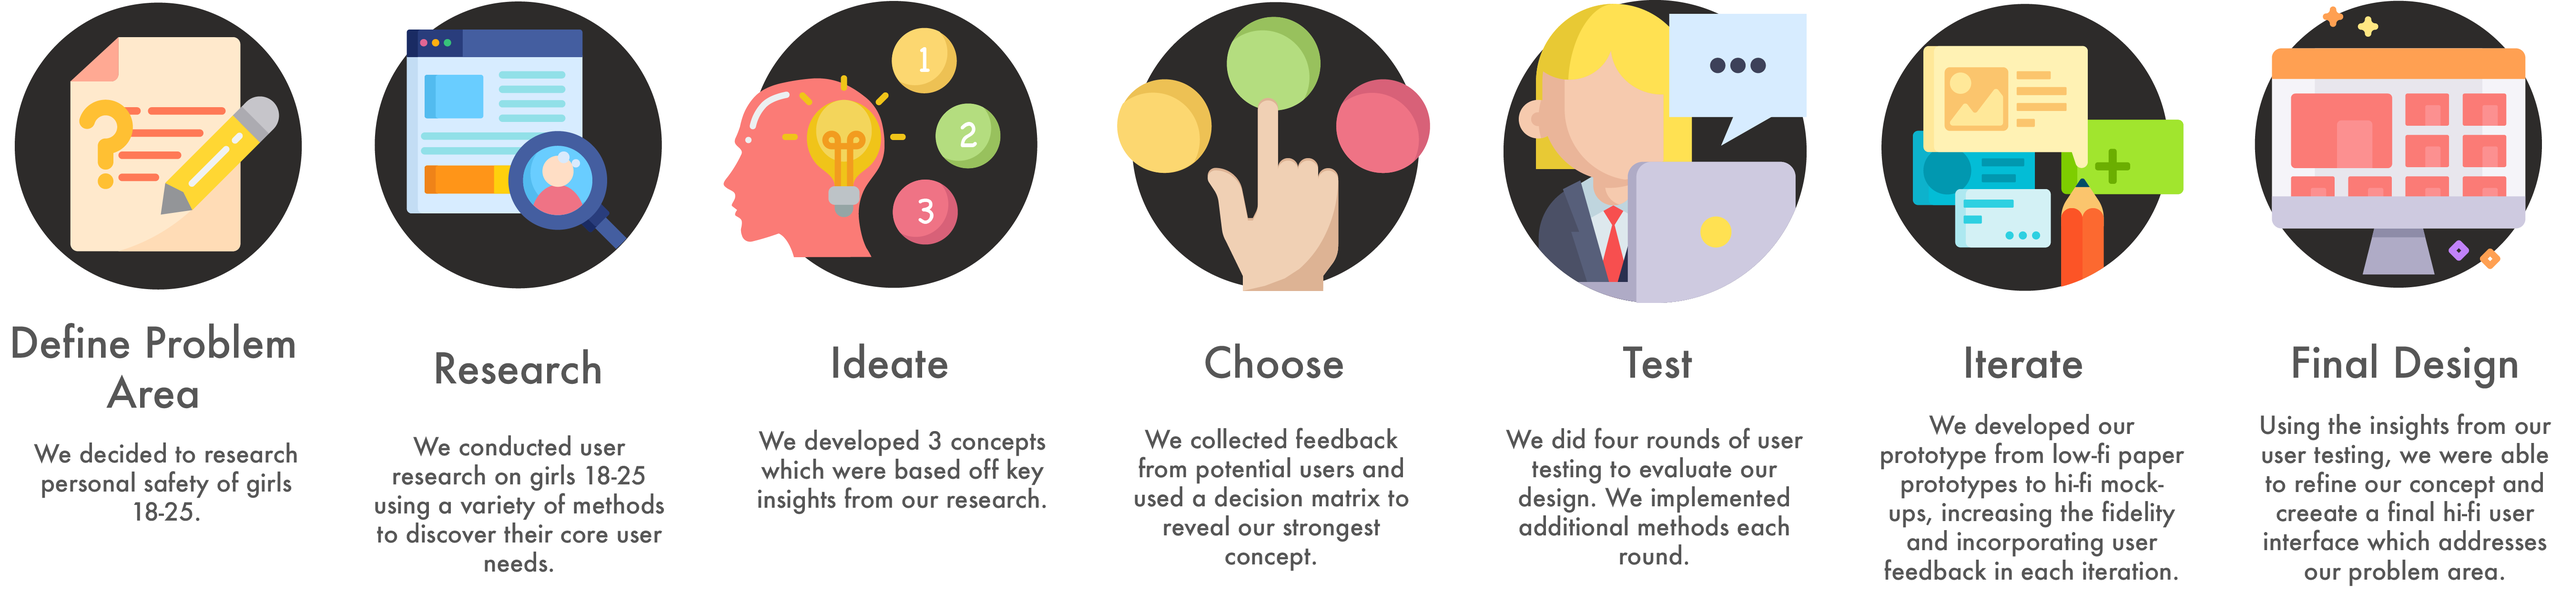
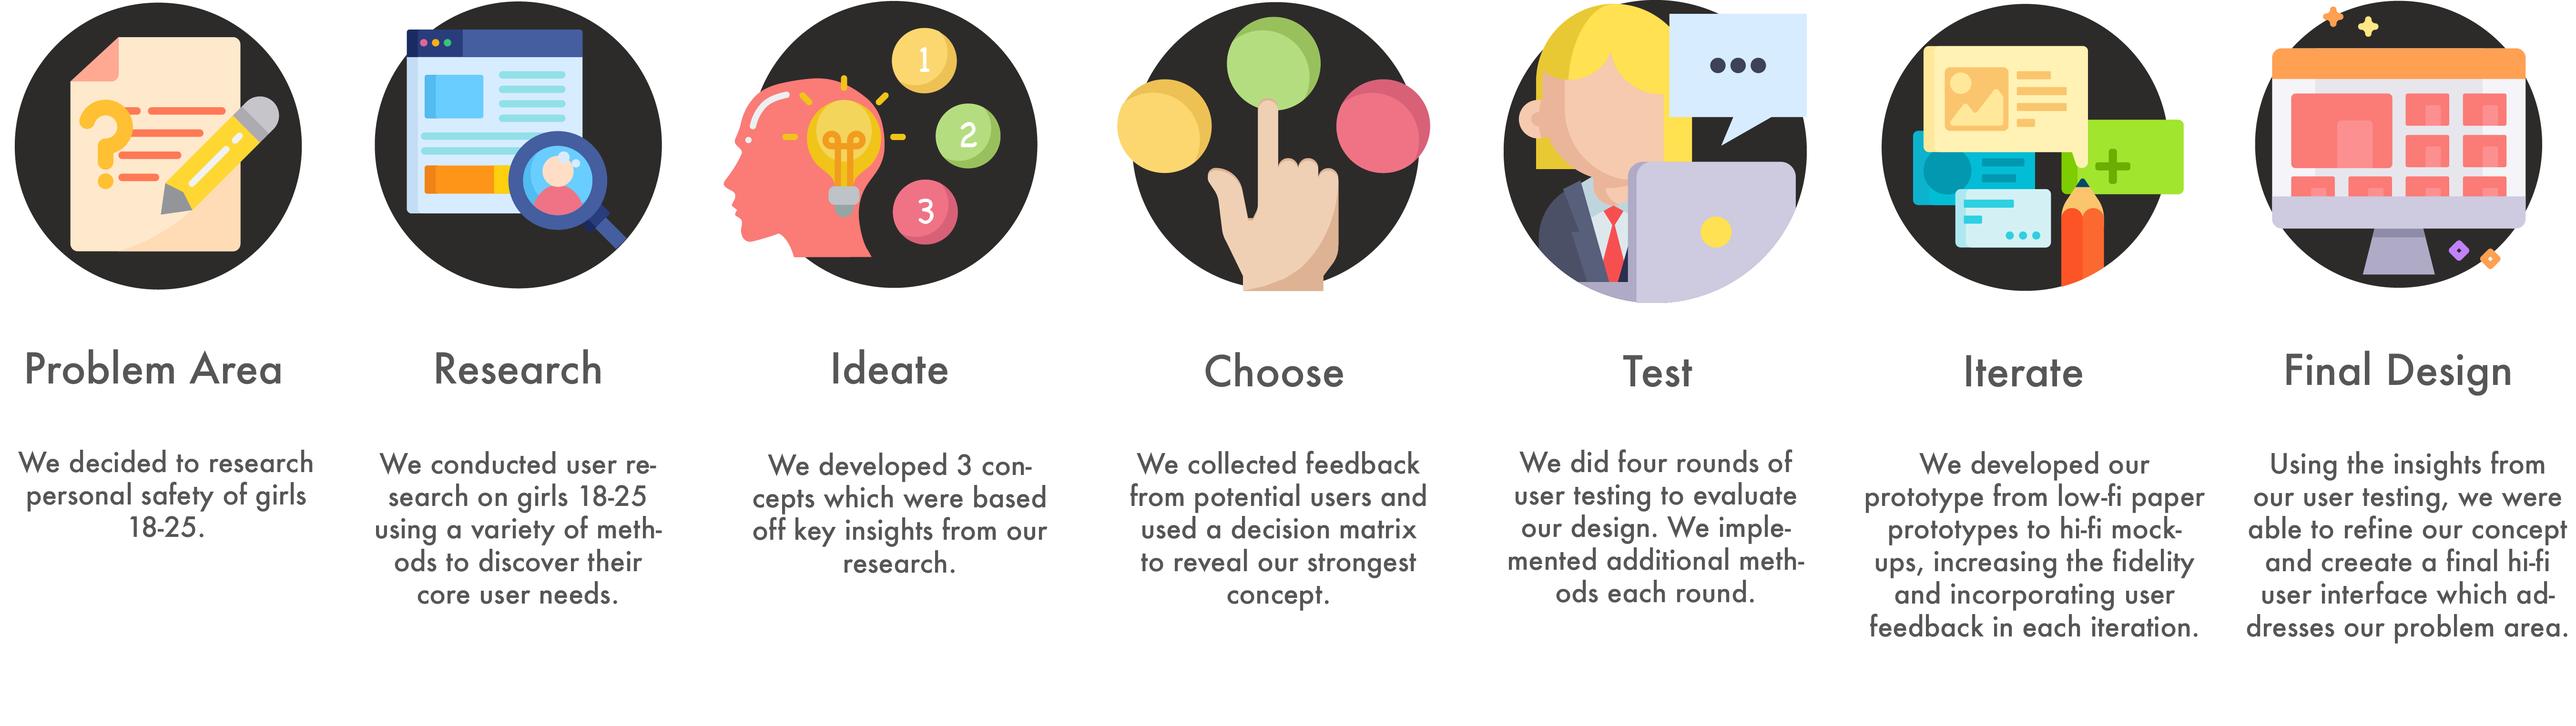
#anna - added visuals

diff --git a/task3.html b/task3.html
@@ -53,7 +53,6 @@
 
 <!-- Hero Page -->
          <section class="title-container">
-            <h1 id="title">Hero</h1>
             <span class="separator"></span>
          </section>
 
@@ -63,9 +62,11 @@
 <div class="section">
    <div class="containercontent">
      <h1 id="heading">OVERVIEW OF PROCESS</h1>
+     <div class="single-image-container">
      <div><img id="process" src="img/process.png"></div>
+    </div>
      <p id="paragraph">Lorem Ipsum is simply dummy text of the printing and typesetting industry. Lorem Ipsum has been the industry's standard dummy text ever since the 1500s, when an unknown printer took a galley of type and scrambled it to make a type specimen book. It has survived not only five centuries, but also the leap into electronic typesetting, remaining essentially unchanged. It was popularised in the 1960s with the release of Letraset sheets containing Lorem Ipsum passages, and more recently with desktop publishing software like Aldus PageMaker including versions of Lorem Ipsum.</p>
-   </div>
+    </div>
  </div>
 
 <!-- SECTION 2 - -->
@@ -74,6 +75,7 @@
              <div class="containercontent">
                <h1 id="heading">OUR PROBLEM AREA</h1>
                <h2 id="heading">Personal Safety of females 18-25</h2>
+               <div><img id="problem" src="img/problem.jpeg"></div>
                <p id="paragraph">Lorem Ipsum is simply dummy text of the printing and typesetting industry. Lorem Ipsum has been the industry's standard dummy text ever since the 1500s, when an unknown printer took a galley of type and scrambled it to make a type specimen book. It has survived not only five centuries, but also the leap into electronic typesetting, remaining essentially unchanged. It was popularised in the 1960s with the release of Letraset sheets containing Lorem Ipsum passages, and more recently with desktop publishing software like Aldus PageMaker including versions of Lorem Ipsum.</p>
              </div>
            </div>
@@ -103,7 +105,12 @@
      <div class="containercontent">
        <h1 id="heading">INITIAL CONCEPTS</h1>
        <p id="paragraph">Lorem Ipsum is simply dummy text of the printing and typesetting industry. Lorem Ipsum has been the industry's standard dummy text ever since the 1500s, when an unknown printer took a galley of type and scrambled it to make a type specimen book. It has survived not only five centuries, but also the leap into electronic typesetting, remaining essentially unchanged. It was popularised in the 1960s with the release of Letraset sheets containing Lorem Ipsum passages, and more recently with desktop publishing software like Aldus PageMaker including versions of Lorem Ipsum.</p>
-     </div>
+        <div class="image-container">
+       <div><img id="concept1summary" src="img/concept1summary.png"></div>
+       <div><img id="concept2summary" src="img/concept2summary.png"></div>
+       <div><img id="concept3summary" src="img/concept3summary.png"></div>
+        </div>
+    </div>
    </div>
 
 <!-- SECTION 5 - -->

diff --git a/styles.css b/styles.css
@@ -13,7 +13,7 @@
 }
 body {
 	/*font-family: "Lato", sans-serif;*/
-	font-family: 'PT Sans', sans-serif;
+	font-family: 'Qanelas ', sans-serif;
 }
 
 .container {
@@ -42,6 +42,25 @@ body {
 	grid-gap: 10px;
 
 	height: 100vh;
+}
+
+.image-container {
+    display: flex;
+    justify-content: space-between;
+    align-items: center;
+}
+
+.single-image-container {
+    display: flex;
+    justify-content: center;
+}
+
+.single-image-container img {
+    width: 12
+}
+
+.image-container img {
+    width:450px;
 }
 
 
@@ -76,7 +95,6 @@ header {
 	margin: 2em auto;
 	max-width: 1200px;
 }
-
 
 
 .title-container {
@@ -246,11 +264,21 @@ header {
 }
 
 .containercontent {
-	display: block;
+    display: block;
 	padding-left: 20px;
-	padding-right: 20px;
+    padding-right: 20px;
+    
 }
 
+.containercontent img {
+    width: 1200px;
+    
+}
+
+.container-content img {
+    float: left;
+    width: 450px;
+}
 
 
 .paragraph {
@@ -290,7 +318,6 @@ img {
 	width: 250px;
 	height: 200px;
 }
-
 
 
 
